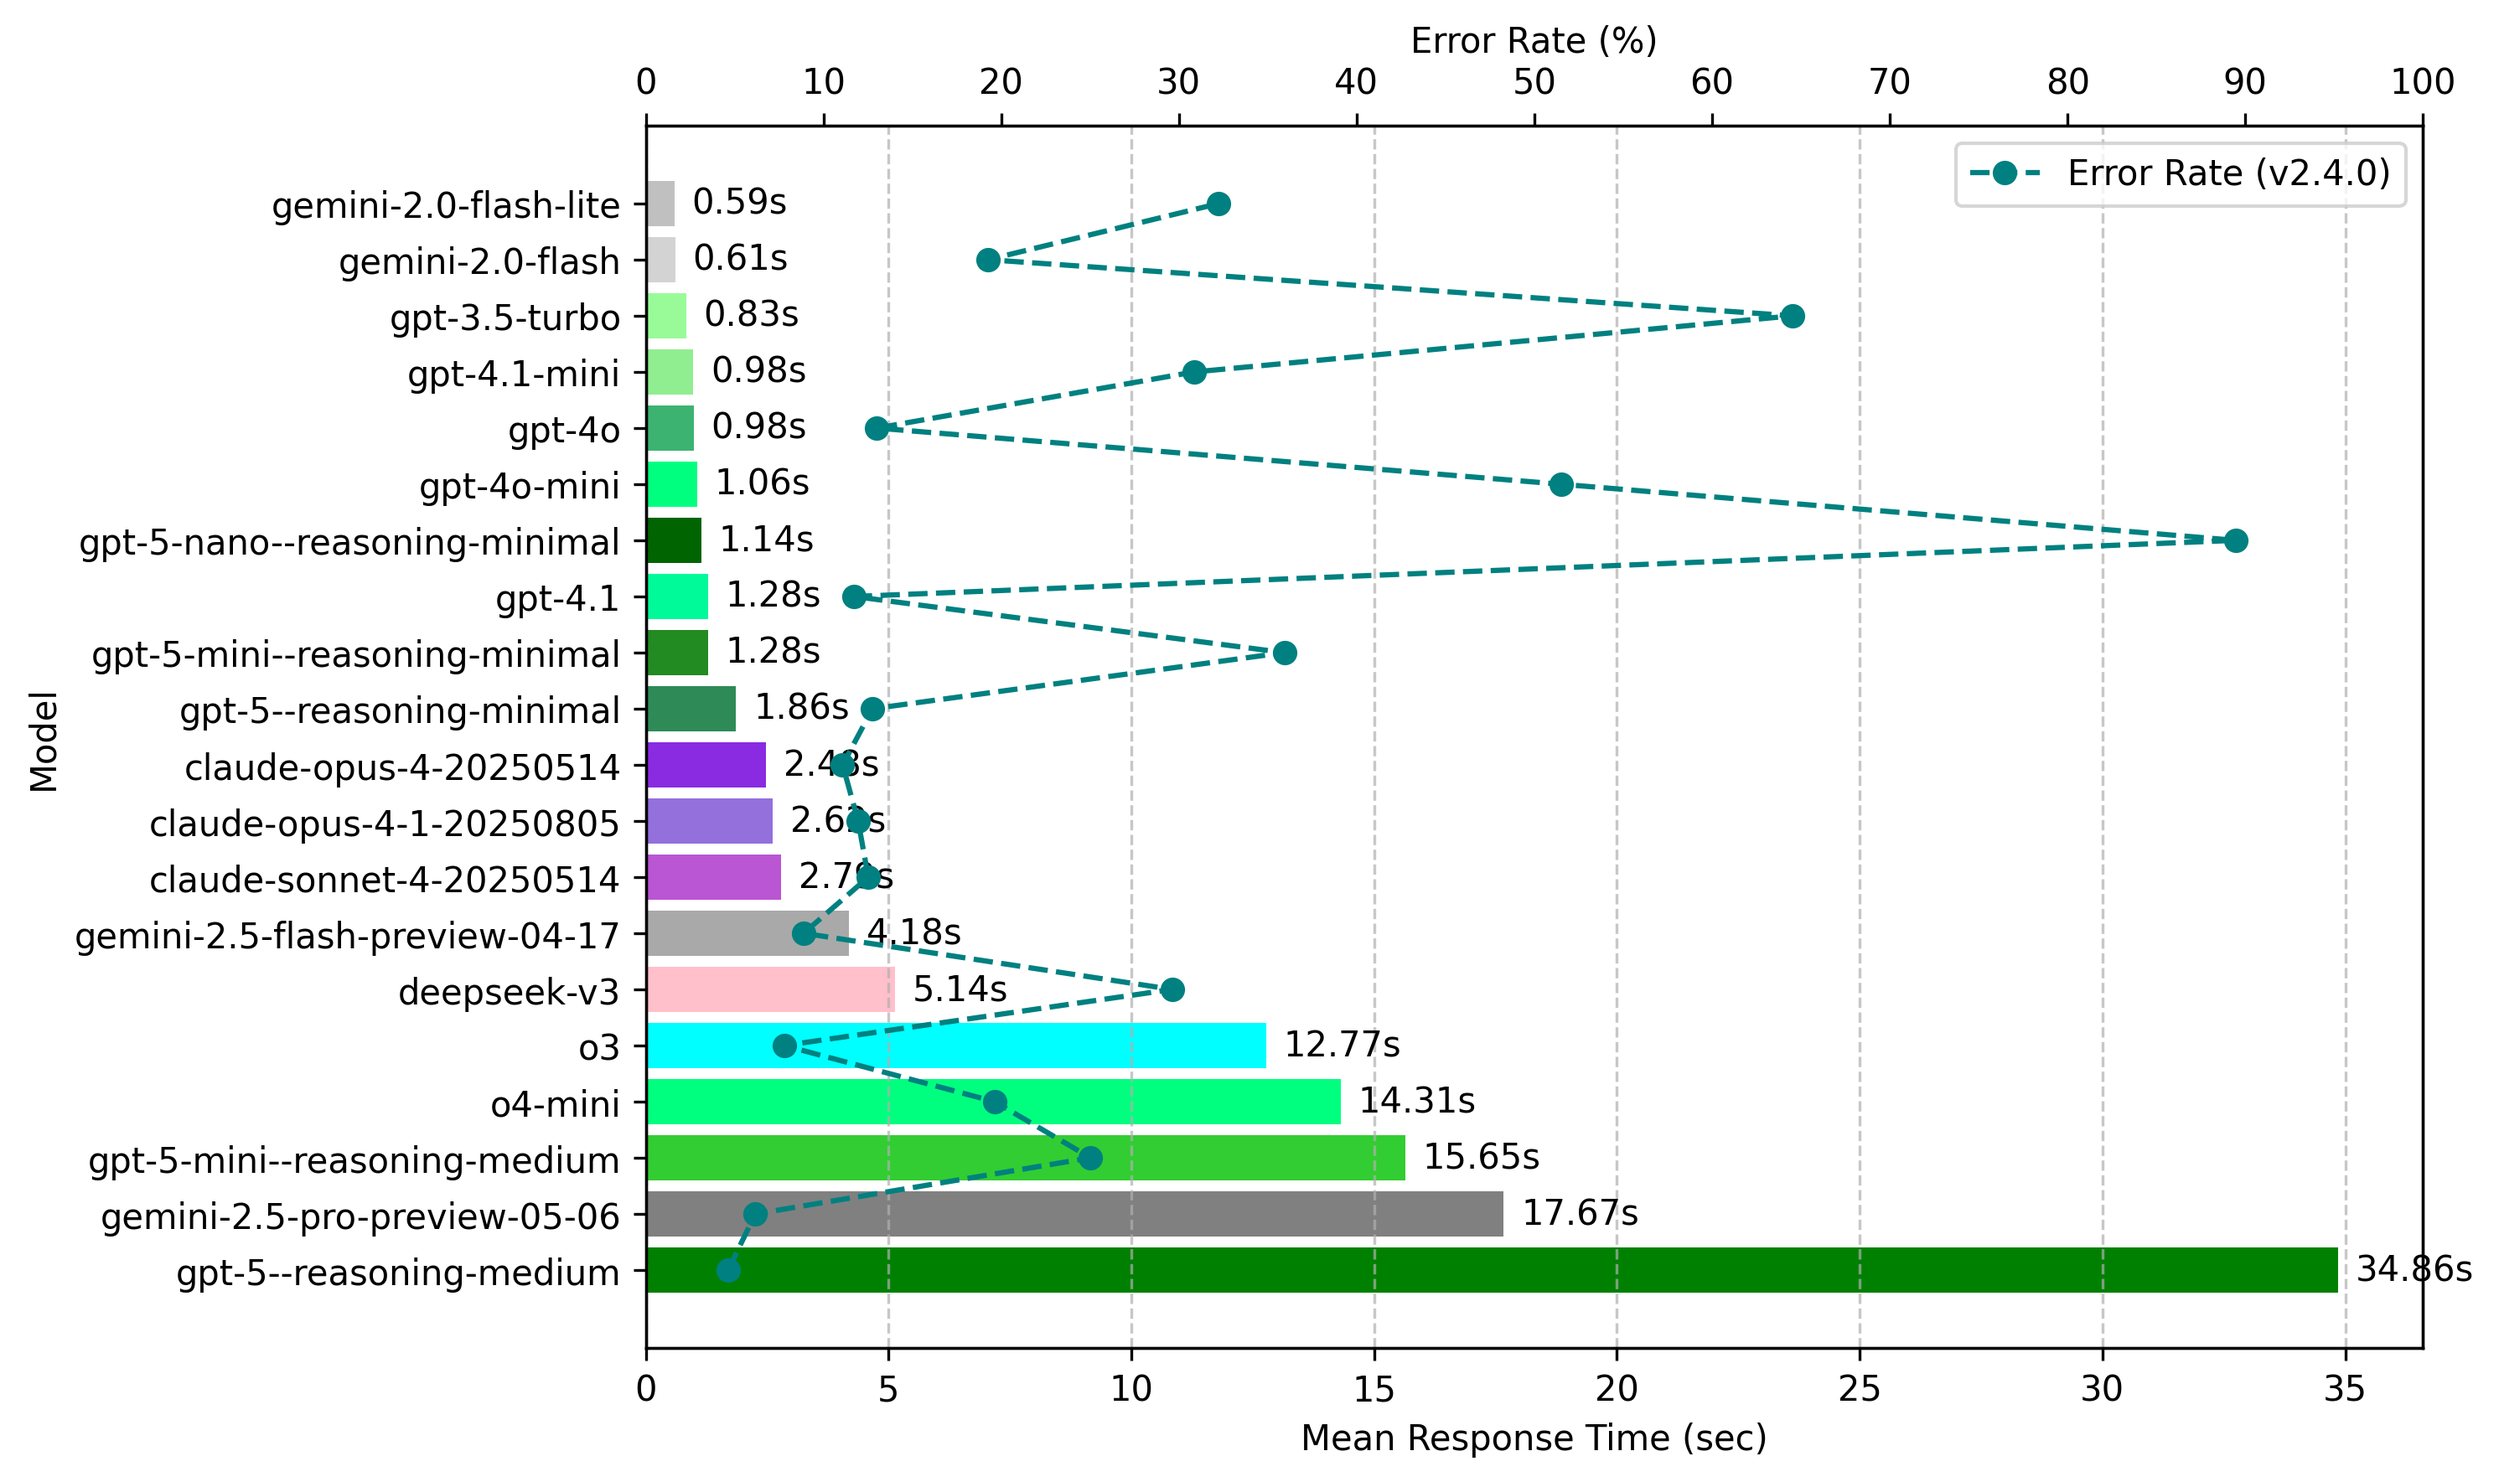
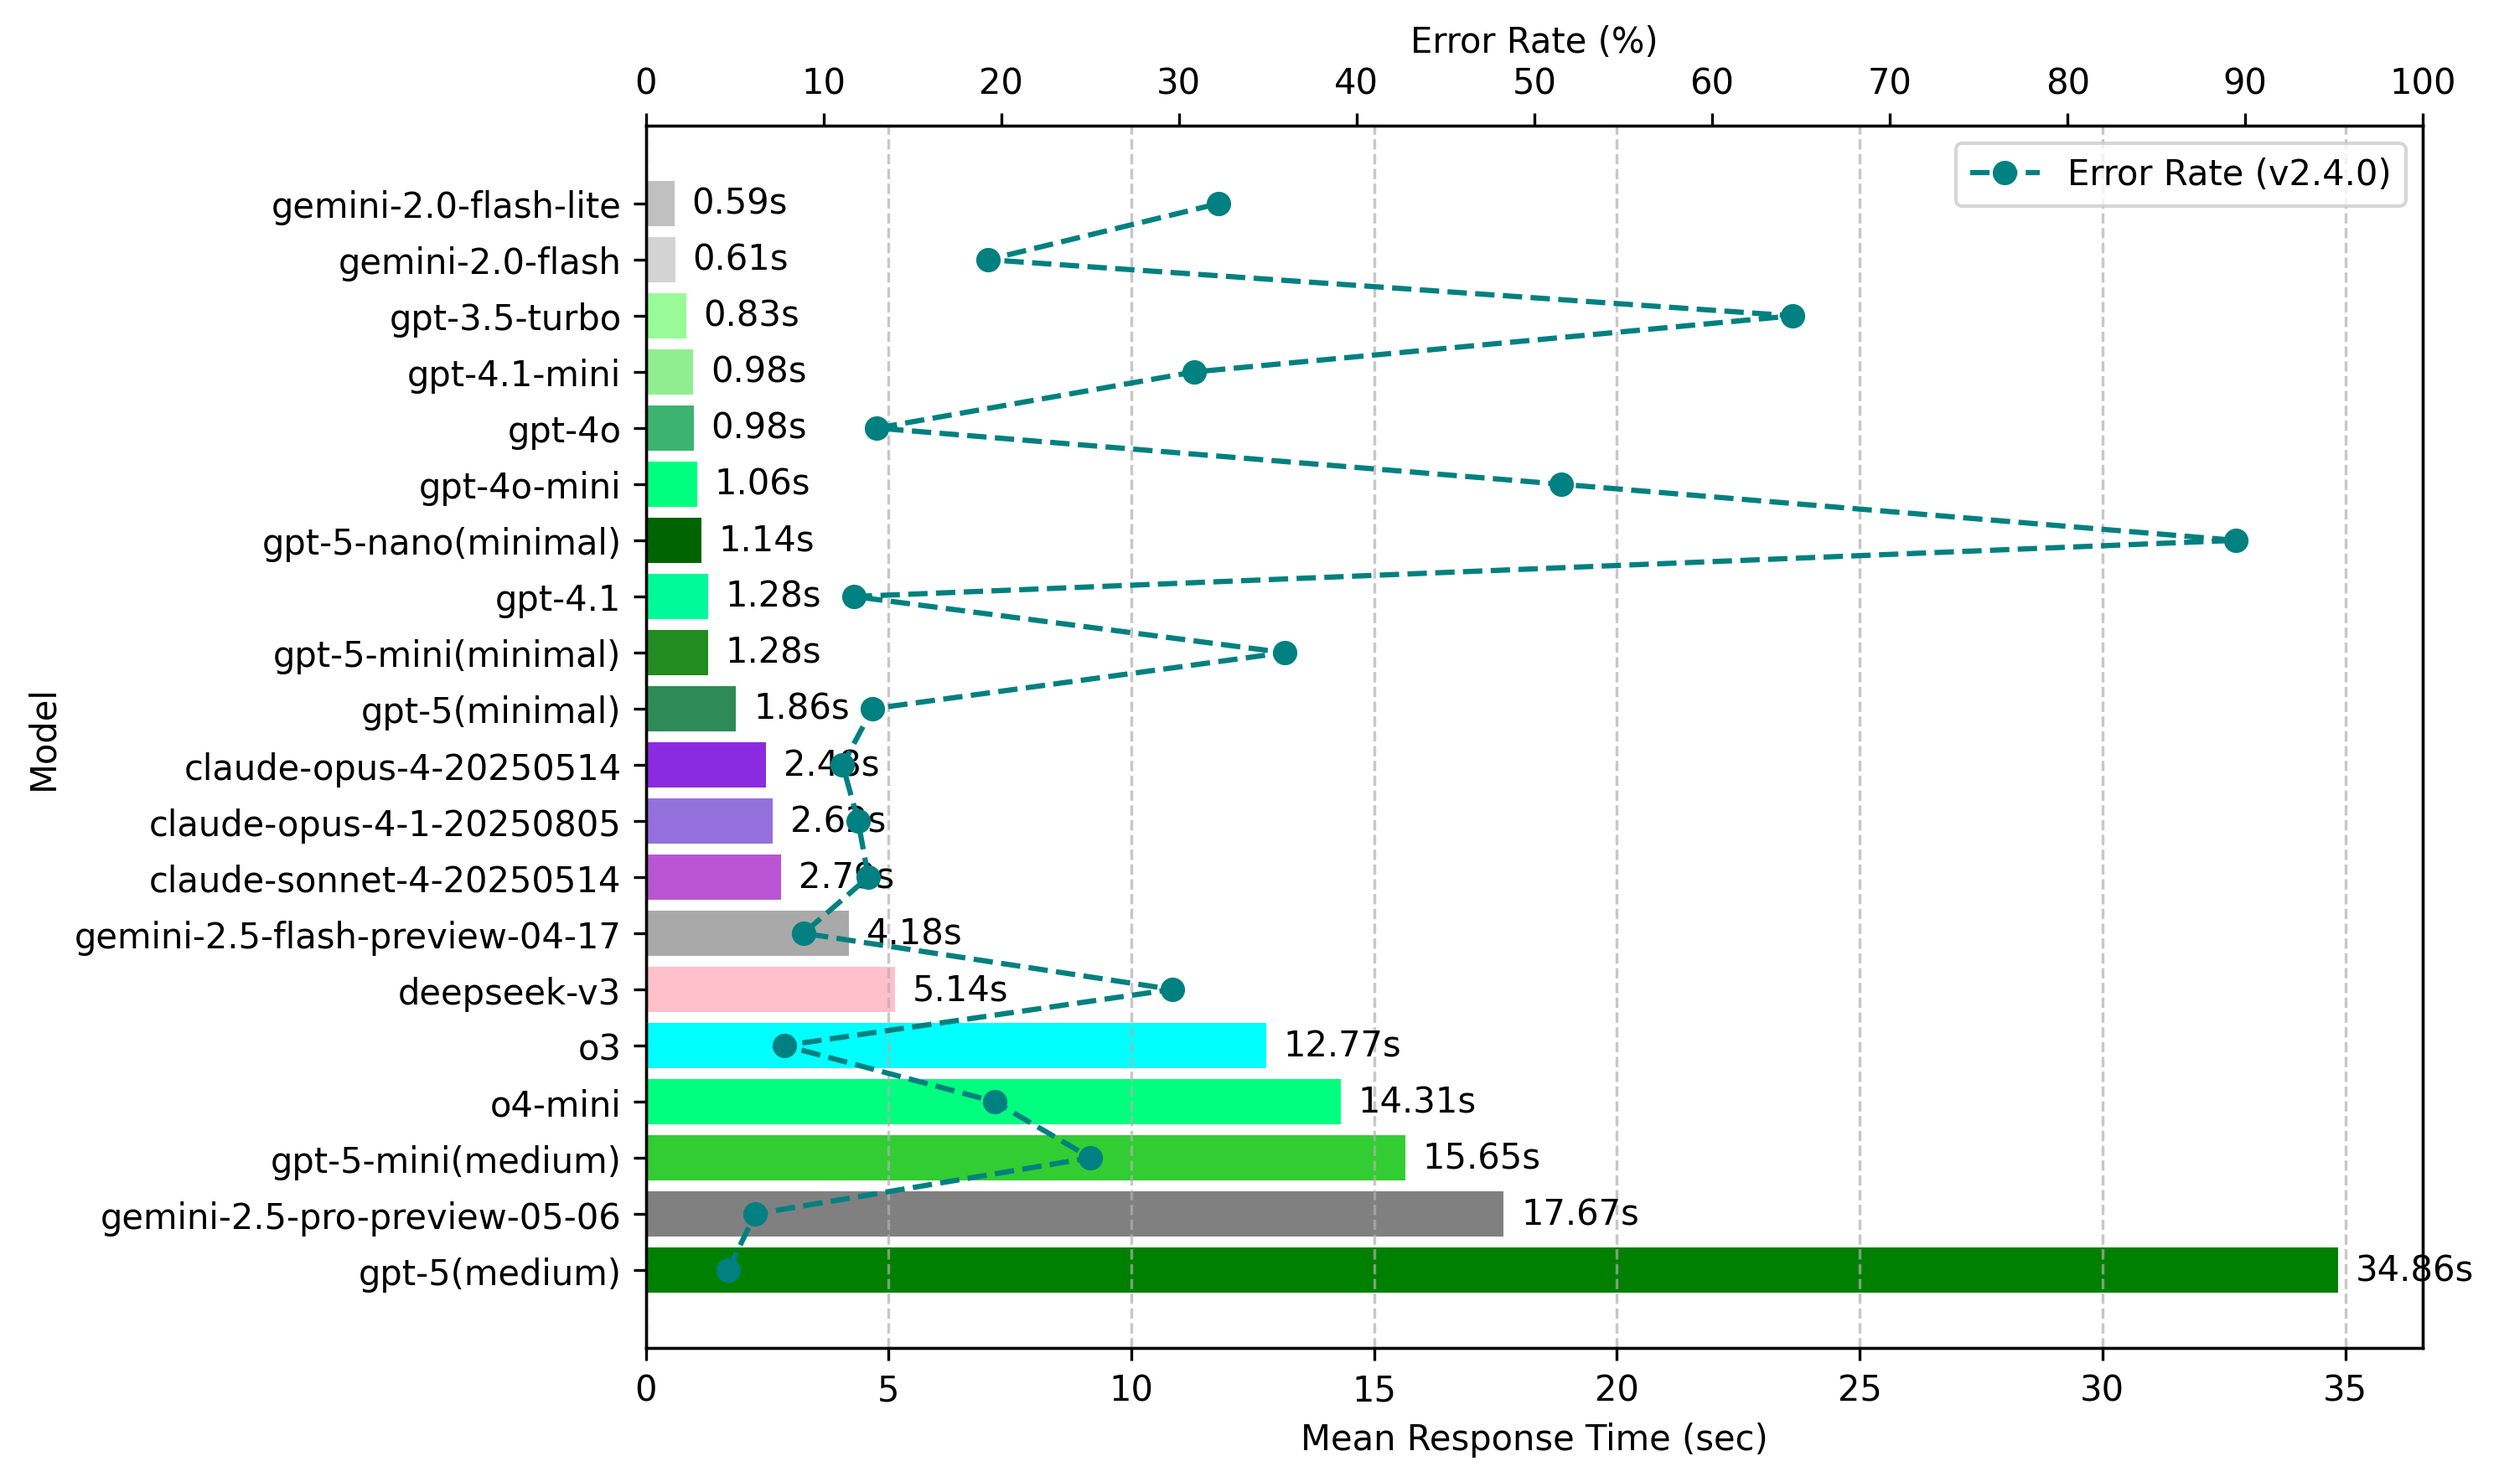
reasoning表示をもう少しわかりやすく修正した

diff --git a/benchmark/plot_errorrate_vs_cost.py b/benchmark/plot_errorrate_vs_cost.py
@@ -41,11 +41,11 @@ MASTER_COST: Dict[str, float] = {
     "claude-opus-4-1-20250805": 0.0225,
     "claude-opus-4-20250514": 0.0225,
     "claude-sonnet-4-20250514": 0.0045,
-    "gpt-5-mini--reasoning-medium": 0.000525,
-    "gpt-5-mini--reasoning-minimal": 0.000525,
-    "gpt-5-nano--reasoning-minimal": 0.000105,
-    "gpt-5--reasoning-minimal": 0.002625,
-    "gpt-5--reasoning-medium": 0.002625,
+    "gpt-5-mini(medium)": 0.000525,
+    "gpt-5-mini(minimal)": 0.000525,
+    "gpt-5-nano(minimal)": 0.000105,
+    "gpt-5(minimal)": 0.002625,
+    "gpt-5(medium)": 0.002625,
 }
 
 # モデルごとの基本色。matplotlib の named color もしくは hex
@@ -66,11 +66,11 @@ COLOR_MAP: Dict[str, str] = {
     "claude-opus-4-1-20250805": "mediumpurple",
     "claude-opus-4-20250514": "blueviolet",
     "claude-sonnet-4-20250514": "mediumorchid",
-    "gpt-5-mini--reasoning-medium": "limegreen",
-    "gpt-5-mini--reasoning-minimal": "forestgreen",
-    "gpt-5-nano--reasoning-minimal": "darkgreen",
-    "gpt-5--reasoning-minimal": "seagreen",
-    "gpt-5--reasoning-medium": "green",
+    "gpt-5-mini(medium)": "limegreen",
+    "gpt-5-mini(minimal)": "forestgreen",
+    "gpt-5-nano(minimal)": "darkgreen",
+    "gpt-5(minimal)": "seagreen",
+    "gpt-5(medium)": "green",
 }
 
 # ---------------------------------------------------------------------------
@@ -94,11 +94,11 @@ DATA_V24: Dict[str, Dict[str, float]] = {
     "claude-opus-4-1-20250805": {"cer": 0.119479, "elapsed": 2.616859},
     "claude-opus-4-20250514": {"cer": 0.110761, "elapsed": 2.476723},
     "claude-sonnet-4-20250514": {"cer": 0.125210, "elapsed": 2.790457},
-    "gpt-5-mini--reasoning-medium": {"cer": 0.250286, "elapsed": 15.645264},
-    "gpt-5-mini--reasoning-minimal": {"cer": 0.359281, "elapsed": 1.278602},
-    "gpt-5-nano--reasoning-minimal": {"cer": 0.894475, "elapsed": 1.140173},
-    "gpt-5--reasoning-minimal": {"cer": 0.127556, "elapsed": 1.858604},
-    "gpt-5--reasoning-medium": {"cer": 0.046352, "elapsed": 34.859140},
+    "gpt-5-mini(medium)": {"cer": 0.250286, "elapsed": 15.645264},
+    "gpt-5-mini(minimal)": {"cer": 0.359281, "elapsed": 1.278602},
+    "gpt-5-nano(minimal)": {"cer": 0.894475, "elapsed": 1.140173},
+    "gpt-5(minimal)": {"cer": 0.127556, "elapsed": 1.858604},
+    "gpt-5(medium)": {"cer": 0.046352, "elapsed": 34.859140},
 }
 
 # ---------------------------------------------------------------------------

diff --git a/benchmark/plot_mean_response_time.py b/benchmark/plot_mean_response_time.py
@@ -46,11 +46,11 @@ MODELS: List[str] = [
     "claude-opus-4-1-20250805",
     "claude-opus-4-20250514",
     "claude-sonnet-4-20250514",
-    "gpt-5-mini--reasoning-medium",
-    "gpt-5-mini--reasoning-minimal",
-    "gpt-5-nano--reasoning-minimal",
-    "gpt-5--reasoning-minimal",
-    "gpt-5--reasoning-medium",
+    "gpt-5-mini(medium)",
+    "gpt-5-mini(minimal)",
+    "gpt-5-nano(minimal)",
+    "gpt-5(minimal)",
+    "gpt-5(medium)",
 ]
 
 # 平均応答時間 (sec) v2.4.0

diff --git a/benchmark/README.md b/benchmark/README.md
@@ -44,6 +44,10 @@ response = self.client.chat.completions.create(
 
 ## 測定結果グラフ
 
+注記:
+  - `(minimal)`というサフィックスが付いているモデルは、reasoning_effortをminimal指定したケースを指します。(sumibi.elではminimalを利用)
+  - `(medium)`というサフィックスが付いているモデルは、reasoning_effortをmedium指定したケースを指します。(こちらは実際にはIMEで使用しないため、仮にreasoningを使ったらどうなるかという参考値として計測した)
+
 ### エラー率 vs コスト（全体表示）
 ![plot1](../images/plot_errorrate_vs_cost_1000x600.png)
 
@@ -74,26 +78,36 @@ Sumibi のユーザビリティを左右する主要因として、以下の3つ
   - `gpt-3.5-turbo`：0.83 s / 64.5 % / $0.00055 ─ 高速だが誤り率が高い。  \
   - `gpt-4.1-mini`：0.98 s / 30.8 % / $0.00052 ─ 中コスト・中精度。  \
   - `gpt-4o-mini`：1.06 s / 51.5 % / $0.000195 ─ 低価格だが精度が課題。  \
+  - `gpt-5-nano(minimal)`：1.14 s / 89.4 % / $0.000105 ─ 超低コストだが精度が不十分 (reasoning_effort=minimal)。  \
+  - `gpt-5-mini(minimal)`：1.28 s / 35.9 % / $0.000525 ─ 低コストだが精度が課題 (reasoning_effort=minimal)。  \
 
 - **1 秒以上で実用性が落ちる**  \
   - `gpt-4.1`：1.28 s / 11.7 % / $0.0065 ─ 高精度だが高コスト。  \
+  - `gpt-5(minimal)`：1.86 s / 12.8 % / $0.002625 ─ 高精度で中程度のコスト (reasoning_effort=minimal)。  \
   - `claude-sonnet-4-20250514`：2.79 s / 12.5 % / $0.0045 ─ 高精度で中程度のコスト。  \
   - `gemini-2.5-flash-preview-04-17`：4.18 s / 8.9 % / $0.000195 ─ 超高精度で低コスト。  \
   - `deepseek-v3`：5.14 s / 29.6 % / $0.000355 ─ 低コストだが遅い。  \
   - `o3`：12.77 s / 7.8 % / $0.0065 ─ 最高精度だが遅延大、高コスト。  \
   - `o4-mini`：14.31 s / 19.6 % / $0.00143 ─ レイテンシー面で不向き。  \
+  - `gpt-5-mini(medium)`：15.65 s / 25.0 % / $0.000525 ─ 低コストだが遅延大 (reasoning_effort=medium)。  \
   - `gemini-2.5-pro-preview-05-06`：17.67 s / 6.2 % / $0.002625 ─ 最高精度で低コストだが非常に遅い。  \
+  - `gpt-5(medium)`：34.86 s / 4.6 % / $0.002625 ─ **最高精度**だが遅延が非常に大きい (reasoning_effort=medium)。  \
 
 ### コスト面の評価
 
 - **コスト最優先で実用的**  \
   - `gemini-2.0-flash-lite`：**$0.0000975** — 0.59 s / CER 32 %。最安値。  \
+  - `gpt-5-nano(minimal)`：**$0.000105** — 1.14 s / CER 89.4 %。超低コストだが精度が不十分。  \
   - `gemini-2.0-flash`：**$0.00013** — 0.61 s / CER 19 %。速度・精度とも実用域。  \
   - `gpt-4o-mini`：$0.000195 — 1.06 s / CER 51.5 %。低コストだが精度が課題。  \
+  - `gpt-5-mini(minimal)`：$0.000525 — 1.28 s / CER 35.9 %。低コストで中程度精度。  \
+  - `gpt-5-mini(medium)`：$0.000525 — 15.65 s / CER 25.0 %。低コストだが遅延大。  \
 
 - **精度重視でコスパ良好**  \
   - `gemini-2.5-flash-preview-04-17`：$0.000195 — CER 8.9 ％。遅延 4 s を許容できれば最高コスパ。  \
   - `gemini-2.5-pro-preview-05-06`：$0.002625 — CER 6.2 %。最高精度で相対的に低コスト。  \
+  - `gpt-5(minimal)`：$0.002625 — CER 12.8 %、1.86 s。高精度で中程度のコスト。  \
+  - `gpt-5(medium)`：$0.002625 — CER 4.6 %。**最高精度**だが遅延34.86 sが課題。  \
   - `claude-sonnet-4-20250514`：$0.0045 — CER 12.5 %、2.8 s。中程度のコストで良好な精度。  \
 
 - **高性能だが高コスト**  \
